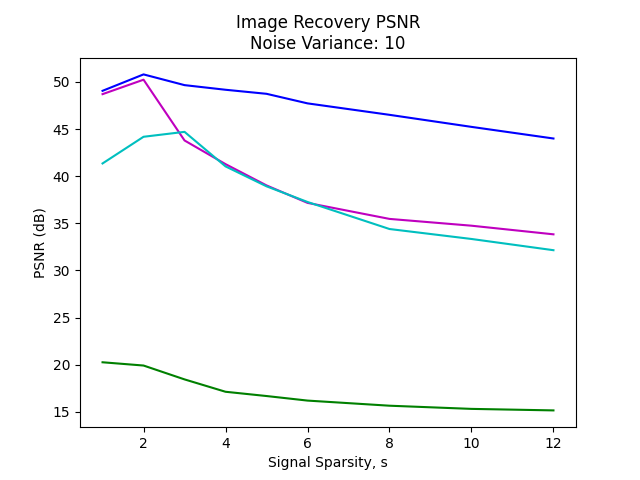
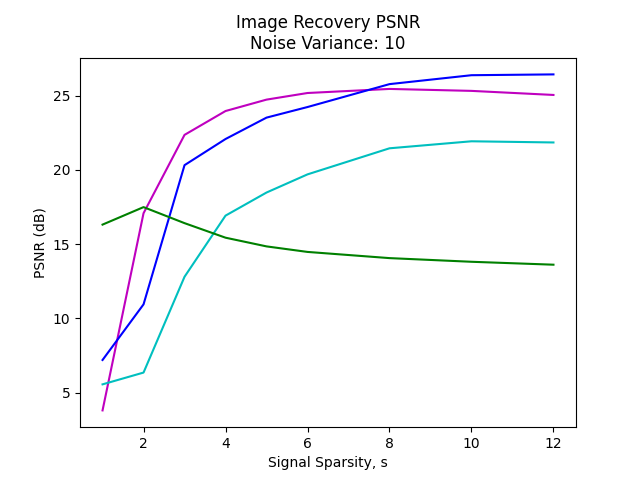
Redo PSNR for noisy images

diff --git a/report.tex b/report.tex
@@ -28,6 +28,14 @@ My project is hosted on GitHub:
 
 
 
+
+
+
+
+
+
+
+
 %%%%%%%%%%%%%%%%%%
 %%%   PART C   %%%
 %%%%%%%%%%%%%%%%%%
@@ -37,7 +45,7 @@ My project is hosted on GitHub:
 \section*{Noiseless Signal Recovery ({\it part c})}
 
 
-\begin{figure}[h]
+\begin{figure}[H]
     \captionsetup{width=.75\linewidth}
     \centering
         \includegraphics[width=0.25\textwidth]{plots/c-recov_N-20.png}
@@ -58,6 +66,18 @@ The Error rate is low for small sparsity, and reach a plateau close to 1.2.
 
 
 
+
+
+
+
+
+
+
+
+
+
+
+
 %%%%%%%%%%%%%%%%%%%
 %%%   PART D1   %%%
 %%%%%%%%%%%%%%%%%%%
@@ -66,7 +86,7 @@ The Error rate is low for small sparsity, and reach a plateau close to 1.2.
 \section*{Noisy Signal Recovery With Known Sparsity ({\it Part d-i})}
 
 
-\begin{figure}[h]
+\begin{figure}[H]
     \captionsetup{width=.75\linewidth}
     \centering
         \includegraphics[width=0.25\textwidth]{plots/d1-recov_N-20_noise-0.05.png}
@@ -80,7 +100,7 @@ The Error rate is low for small sparsity, and reach a plateau close to 1.2.
 \end{figure}
 
 
-\begin{figure}[h]
+\begin{figure}[H]
     \captionsetup{width=.75\linewidth}
     \centering
         \includegraphics[width=0.25\textwidth]{plots/d1-recov_N-20_noise-1.png}
@@ -98,6 +118,18 @@ As we might predict, adding small amounts of noise changes the ESR and Normalize
 
 
 
+
+
+
+
+
+
+
+
+
+
+
+
 %%%%%%%%%%%%%%%%%%%
 %%%   PART D2   %%%
 %%%%%%%%%%%%%%%%%%%
@@ -106,7 +138,7 @@ As we might predict, adding small amounts of noise changes the ESR and Normalize
 \section*{Noisy Signal Recovery ({\it part d-ii})}
 
 
-\begin{figure}[h]
+\begin{figure}[H]
     \captionsetup{width=.75\linewidth}
     \centering
         \includegraphics[width=0.25\textwidth]{plots/d2-recov_N-20_noise-0.05.png}
@@ -120,7 +152,7 @@ As we might predict, adding small amounts of noise changes the ESR and Normalize
 \end{figure}
 
 
-\begin{figure}[h]
+\begin{figure}[H]
     \captionsetup{width=.75\linewidth}
     \centering
         \includegraphics[width=0.25\textwidth]{plots/d2-recov_N-20_noise-1.png}
@@ -132,6 +164,18 @@ As we might predict, adding small amounts of noise changes the ESR and Normalize
         \includegraphics[width=0.25\textwidth]{plots/d2-error_N-100_noise-1.png}
         \caption{Noisy support set recovery {\bf variance=1}. Stop condition achieved when the 2-norm of residual is less than 0.001. Top row: The probability of Exact Support Recovery. Bottom row: Normalized error of recovered signal.}
 \end{figure}
+
+
+
+
+
+
+
+
+
+
+
+
 
 
 
@@ -169,7 +213,7 @@ These are the steps used in Compressive Sensing and Signal Reconstruction.
     \item Each sub image is transformed into frequency space using a Discrete Cosine Transform.
         The $64 \times 64$ DCT matrix forms $\Psi$.
     \item The transformed $8 \times 8$ subimage is converted into a vector $x \in \mathbb{R}^{1 \times 64}$
-        The order uses the zig-zag pattern demonstrated in {\it figure ****} to bias low frequency coefficients in Fourier space.
+        The order uses the zig-zag pattern demonstrated in {\it figure 6 to bias low frequency coefficients in Fourier space.
     \item The largest $s$ elements in $x$ are retained. The rest are set to zero. This sparse vector is denoted $x_s$
     \item {\bf Compressive Sensing}: Calculate $y = \Phi \cdot x_s$. ($y \in \mathbb{R}^M$)
     \item Perform OMP to recover $\hat{x} \in \mathbb{R}^{64}$.
@@ -181,7 +225,7 @@ These are the steps used in Compressive Sensing and Signal Reconstruction.
 In the above steps $y = \Phi \Psi x$ is the result of compressive sensing.
 This process is repeated for every $8 \times 8$ subimage.
 
-\begin{figure}[h]
+\begin{figure}[H]
     \captionsetup{width=.5\linewidth}
     \centering
         \includegraphics[width=0.5\textwidth]{assets/zigzag.jpg}
@@ -201,7 +245,7 @@ At $s/N = 2/64$ we begin to see some texture, although finer details are not rec
 However, even at low sparsity levels, around 8, we can see more details being recovered.
 Notice the texture in the elephant's skin, the tree branches under the arch, and the hairs of the koala start to appear.
 
-\begin{figure}[h]
+\begin{figure}[H]
     \captionsetup{width=.5\linewidth}
     \centering
         \includegraphics[width=0.25\textwidth]{images/arch.png}
@@ -210,7 +254,7 @@ Notice the texture in the elephant's skin, the tree branches under the arch, and
         \caption{The original image of the arch (left) recovered image with s=2 (center) and recovered image with s=8 (right)}
 \end{figure}
 
-\begin{figure}[h]
+\begin{figure}[H]
     \captionsetup{width=.5\linewidth}
     \centering
         \includegraphics[width=0.25\textwidth]{images/elephant.png}
@@ -219,7 +263,7 @@ Notice the texture in the elephant's skin, the tree branches under the arch, and
         \caption{The original image of elephant (left) recovered image with s=2 (center) and recovered image with s=8 (right)}
 \end{figure}
 
-\begin{figure}[h]
+\begin{figure}[H]
     \captionsetup{width=.5\linewidth}
     \centering
         \includegraphics[width=0.25\textwidth]{images/koala.png}
@@ -228,7 +272,7 @@ Notice the texture in the elephant's skin, the tree branches under the arch, and
         \caption{The original image of the koala (left) recovered image with s=2 (center) and recovered image with s=8 (right)}
 \end{figure}
 
-\begin{figure}[h]
+\begin{figure}[H]
     \captionsetup{width=.5\linewidth}
     \centering
         \includegraphics[width=0.25\textwidth]{images/spiral.png}
@@ -239,7 +283,7 @@ Notice the texture in the elephant's skin, the tree branches under the arch, and
 
 
 
-\begin{figure}[h]
+\begin{figure}[H]
     \captionsetup{width=.5\linewidth}
     \centering
         \includegraphics[width=0.5\textwidth]{plots/d3-no-noise.png}
@@ -261,7 +305,7 @@ The mean for both experiments is zero.
 
 
 \subsubsection*{Variance=10}
-\begin{figure}[h]
+\begin{figure}[H]
     \captionsetup{width=.5\linewidth}
     \centering
         \includegraphics[width=0.25\textwidth]{images/koala_noise-10.png}
@@ -273,7 +317,7 @@ The mean for both experiments is zero.
 
 \newpage
 \subsubsection*{Variance=50}
-\begin{figure}[h]
+\begin{figure}[H]
     \captionsetup{width=.5\linewidth}
     \centering
         \includegraphics[width=0.25\textwidth]{images/koala_noise-50.png}

diff --git a/part_d3.py b/part_d3.py
@@ -117,12 +117,14 @@ def run_image(filepath, noise=None):
     label = filepath.replace('images/', '')
     label = label.replace('.png', '')
 
-    image = load_image(filepath)
+    original = load_image(filepath)
 
     if noise is not None:
         label = label + f'_noise-{noise}'
-        image, _ = add_noise(image, noise)
+        image, _ = add_noise(original, noise)
         save_image(image, 'images/' + label + '.png')
+    else:
+        image = original
 
     N = 64
     M = 30
@@ -154,7 +156,7 @@ def run_image(filepath, noise=None):
         img_recov = img_recov * 255
         img_recov = img_recov.astype('uint8')
 
-        psnr.append(peak_snr(image, img_recov))
+        psnr.append(peak_snr(original, img_recov))
 
     return Ss, psnr
 
@@ -206,8 +208,6 @@ def run_part_d3():
     ax.legend()
     plt.savefig(f'./plots/d3-no-noise.png')
     plt.close()
-
-    return
 
 
     # And with noise variance 50
